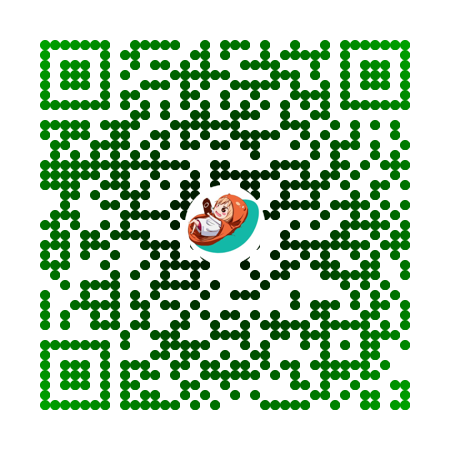
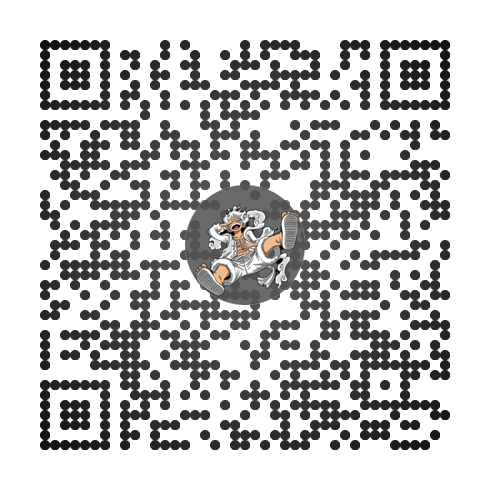
update image

diff --git a/python/qr.py b/python/qr.py
@@ -8,7 +8,7 @@ from PIL import Image
 # Fungsi untuk menambahkan gambar ditengah QR Code
 def addLogo(qr_code, gambar):
     qr_code = qr_code.convert("RGBA")
-    gambar = gambar.resize((80, 80))  # Ubah ukuran gambar sesuai kebutuhan
+    gambar = gambar.resize((120, 120))  # Ubah ukuran gambar sesuai kebutuhan
     posisi = ((qr_code.size[0] - gambar.size[0]) // 2, (qr_code.size[1] - gambar.size[1]) // 2)
     qr_code.paste(gambar, posisi, gambar)
     return qr_code
@@ -19,7 +19,7 @@ whatsapp_link = "085274620281"
 # Tautan YouTube
 github_link = "github.com/bobbyrahmanda13"
 # Tautan Instagram
-instagram_link = "instagram.com/rahman.rvbr"
+instagram_link = "instagram.com/0.0_rahman_0.0/"
 # Tautan Telegram
 telegram_link = "t.me/Rahman_0000"
 # Tautan Website
@@ -41,9 +41,9 @@ qr_image = qr.make_image(
     image_factory=StyledPilImage, 
     module_drawer=CircleModuleDrawer(), eye_drawer=CircleModuleDrawer(), 
     # color_mask=SolidFillColorMask(back_color=(255,255,255), front_color=(0,0,200))
-    color_mask=RadialGradiantColorMask(back_color=(255,255,255), edge_color=(0,200,0), center_color=(0,0,0))
+    color_mask=RadialGradiantColorMask(back_color=(255,255,255), edge_color=(0,0,0), center_color=(100,100,100))
 )
 
-logo = Image.open("g.png")
+logo = Image.open("image/gear5.png")
 qrCodeWithImage = addLogo(qr_image, logo)
 qrCodeWithImage.save("qr_code.png")
